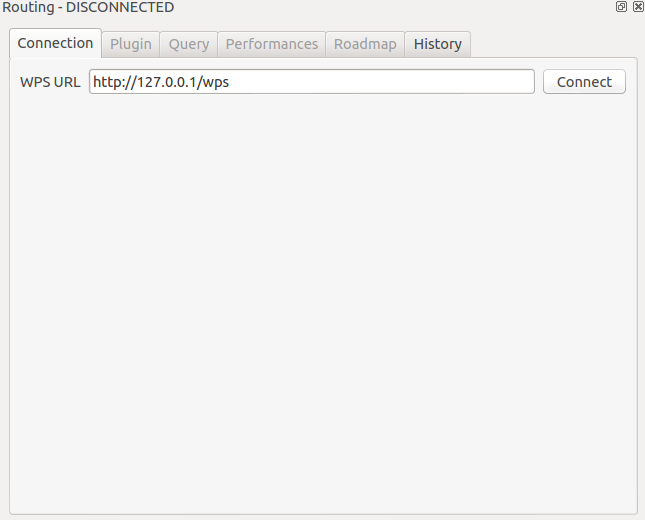
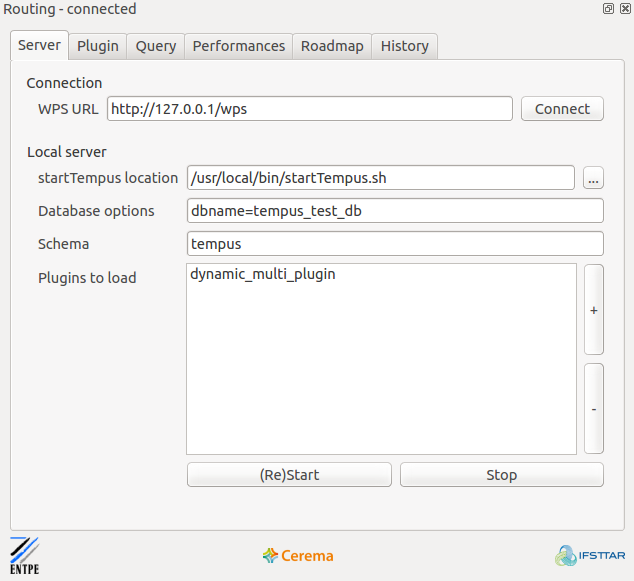
Talk about the WPS auto launch

diff --git a/doc/Documentation.md b/doc/Documentation.md
@@ -43,7 +43,7 @@ WPS Server
 
 A WPS server is part of Tempus. It will load the user plugins as well as road and public transport data found in a given PostgreSQL/PostGIS database and allows a user to request path planning through a web server.
 
-The WPS server uderstands XML requests. Those can be written directly, using a python script or using QGIS via the provided plugin.
+The WPS server understands XML requests. Those can be written directly, using a python script or using QGIS via the provided plugin.
 
 Python generated requests
 -------------------------
@@ -72,6 +72,13 @@ A client for QGIS is shipped with Tempus. It can be installed as a QGIS Python p
 It first requires a WPS server to connect to.
 
 ![Image](images/qgis_1.png?raw=true)
+
+The upper part of the tab is used to connect to an existing WPS server.
+
+For test purposes, a WPS server can be launched manually from a console (see the [installation](Installation.md) section).
+For convenience, the lower part of the tab allows to directly launch a WPS server with a GUI for options. The server will be launched in a new window when clicking on '(Re)Start'.
+
+![Image](images/wps_launch.png?raw=true)
 
 Once connected, the user has to select the plugin to use and the corresponding options.
 
